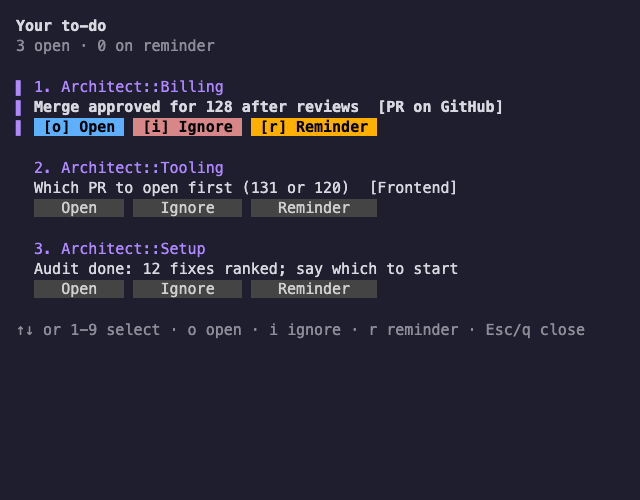
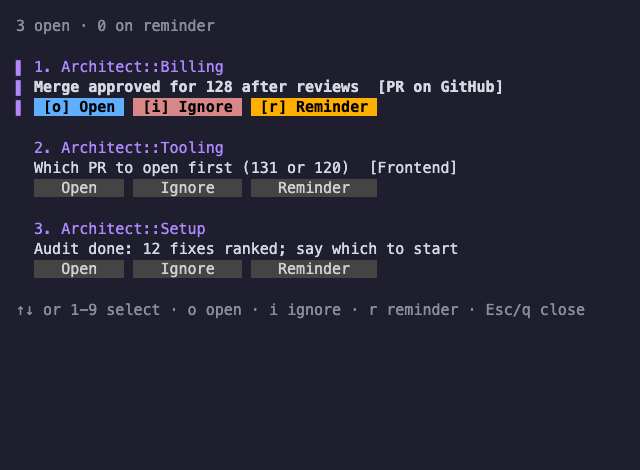
refactor(coordinator): drop the in-view title and the OSC title

Changed region(s): [[0.0, 0.0298, 0.7812, 0.4468], [0.0312, 0.4766, 0.7188, 0.5957]]

diff --git a/coordinator/user-todo-view.py b/coordinator/user-todo-view.py
@@ -41,7 +41,6 @@ GUTTER = 2
 FOOTER = "↑↓ or 1-9 select · o open · i ignore · r reminder · s show reminders"
 SHOW_HINT = "s show reminders"
 CLOSE_HINT = "Esc/q close"
-TITLE = "Your to-do"
 DEMO = [("## Architect::Billing.md", "- [1h] Merge approved for 128 after reviews -> https://github.com/example/shop/pull/128"),
         ("## Architect::Tooling.md", "- [3h] Which PR to open first (131 or 120) -> Architect::Frontend"),
         ("## Architect::Setup.md", "- [now] Audit done: 12 fixes ranked; say which to start")]
@@ -335,7 +334,7 @@ def layout(rows, width, hidden_count, selected=0, showing=False, picker=None, op
     owner line, buttons and picker stay whole and its message is cut to what is left."""
     open_count = len(rows) if open_count is None else open_count
     width = max(1, width)
-    lines, hits = [f"\033[1m{TITLE}\033[0m", f"\033[2m{open_count} open · {hidden_count} on reminder\033[0m", ""], []
+    lines, hits = [f"\033[2m{open_count} open · {hidden_count} on reminder\033[0m", ""], []
     room = max(1, width - GUTTER)
     for index, (owner, text, flagged, note) in enumerate(rows):
         picked = index == selected
@@ -635,7 +634,7 @@ class App:
             self.refresh()
 
 
-ENTER = f"\033]2;{TITLE}\007\033[?1000h\033[?1006h\033[?25l"
+ENTER = "\033[?1000h\033[?1006h\033[?25l"
 LEAVE = "\033[?1000l\033[?1006l\033[?25h"
 
 

diff --git a/coordinator/watchers/test_todo_view.py b/coordinator/watchers/test_todo_view.py
@@ -306,17 +306,10 @@ class AutoHideTest(ViewCase):
         hidden.remind(*self.items[0], self.clock.now + 60)
         lines = self.plain(view.layout(hidden.visible(self.items), 80, hidden.hidden_count(self.items), 0, False, None,
                                        hidden.open_count(self.items))[0])
-        self.assertEqual(lines[:2], [view.TITLE, "3 open · 1 on reminder"])
+        self.assertEqual(lines[0], "3 open · 1 on reminder")
         self.assertTrue(any("show reminders (1)" in line for line in lines))
         shown = self.plain(view.layout(hidden.visible(self.items, True), 80, 1, 0, True, None, 3)[0])
         self.assertTrue(any("hide reminders (1)" in line for line in shown))
-
-    def test_the_title_is_the_first_line_above_the_counts(self):
-        lines = self.plain(view.layout([], 80, 0, 0, False, None, 0)[0])
-        self.assertEqual(lines[:2], ["Your to-do", "0 open · 0 on reminder"])
-
-    def test_the_start_sequence_sets_the_terminal_title(self):
-        self.assertIn("\033]2;Your to-do\007", view.ENTER)
 
     def test_the_toggle_and_the_s_hint_need_a_reminder(self):
         for count, expected in ((0, False), (1, True)):

diff --git a/README.md b/README.md
@@ -82,9 +82,9 @@ python3 ~/.claude/coordinator/user-todo.py --follow
 
 `user-todo.py` without `--follow` writes the file once. In the pane, press a number then Enter (or click) to jump to the item. `n` and `p` change page. A jump removes the item from the list. An empty list reads `Nothing waits on you.`
 
-For buttons instead, run `python3 ~/.claude/coordinator/user-todo-view.py` (`--demo` shows sample items). Each item has Open, Ignore and Reminder buttons (click, or `o` `i` `r` on the selected item; `↑↓` or a number selects). Open jumps to the target. Ignore removes the item for good: it returns only when the architect writes a new or changed item, and one `todo: TODO IGNORED <architect>: <text> (start)` line goes to the feed so the Coordinator can tell that architect. Reminder asks when (`1`-`5` for 15m, 1h, 2h, 4h, tomorrow 9:00; `t` types `30m` or `3h`) and hides the item until then; reminders are listed under `s` and come back marked `reminder:`; on a reminder item the button reads Cancel reminder. The view starts with the title `Your to-do`, then `<n> open · <m> on reminder`. The `[s]` toggle and the `s show reminders` footer hint appear only while at least one reminder exists; the list closes when the last one goes. State is in `~/.claude/coordinator/user-todo-state.json` (not the generator's `user-todo.state.json`).
+For buttons instead, run `python3 ~/.claude/coordinator/user-todo-view.py` (`--demo` shows sample items). Each item has Open, Ignore and Reminder buttons (click, or `o` `i` `r` on the selected item; `↑↓` or a number selects). Open jumps to the target. Ignore removes the item for good: it returns only when the architect writes a new or changed item, and one `todo: TODO IGNORED <architect>: <text> (start)` line goes to the feed so the Coordinator can tell that architect. Reminder asks when (`1`-`5` for 15m, 1h, 2h, 4h, tomorrow 9:00; `t` types `30m` or `3h`) and hides the item until then; reminders are listed under `s` and come back marked `reminder:`; on a reminder item the button reads Cancel reminder. The top line reads `<n> open · <m> on reminder`. The `[s]` toggle and the `s show reminders` footer hint appear only while at least one reminder exists; the list closes when the last one goes. State is in `~/.claude/coordinator/user-todo-state.json` (not the generator's `user-todo.state.json`).
 
-To open it as a Herdr popup on `prefix+t`, pass `--popup` so `Esc` or `q` closes it (the footer then shows `Esc/q close`; Herdr sets no popup marker and no popup title option; the view sets the terminal title to `Your to-do`). Without the flag nothing closes it, so the Coordinator's to-do pane stays up. `Esc` while the reminder choices show only cancels them, and `q` is typed as text in the `t` entry.
+To open it as a Herdr popup on `prefix+t`, pass `--popup` so `Esc` or `q` closes it (the footer then shows `Esc/q close`; Herdr sets no popup marker). Without the flag nothing closes it, so the Coordinator's to-do pane stays up. `Esc` while the reminder choices show only cancels them, and `q` is typed as text in the `t` entry.
 
 ```toml
 [[keys.command]]
